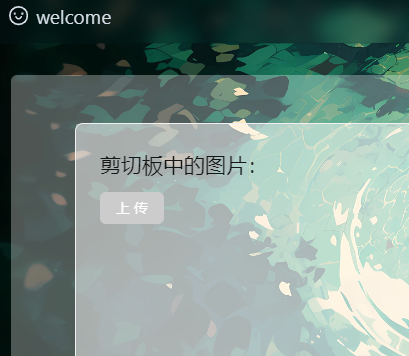
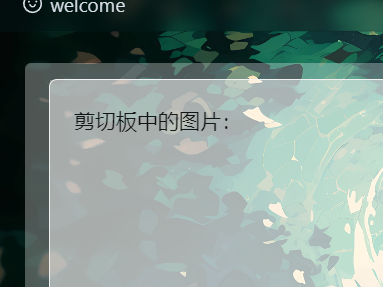
feat: 优化前端

diff --git a/apps/ant-design-pro/src/pages/upload/index.tsx b/apps/ant-design-pro/src/pages/upload/index.tsx
@@ -1,9 +1,9 @@
 import { PageContainer } from '@ant-design/pro-components';
 import { useModel } from '@umijs/max';
-import { Card, theme, message, Upload, Button, Table } from 'antd';
+import { Card, theme, message, Upload, Image, Table } from 'antd';
 import React, { useEffect, useState } from 'react';
 import { InboxOutlined } from '@ant-design/icons';
-import type { UploadProps } from 'antd';
+import type { UploadProps, TableColumnsType } from 'antd';
 import { IKContext, IKUpload, IKImage } from 'imagekitio-react';
 import { listen } from '@tauri-apps/api/event';
 import { invoke } from '@tauri-apps/api/core';
@@ -39,11 +39,12 @@ const Index: React.FC = () => {
       console.log('Dropped files', e.dataTransfer.files);
     },
   };
+  const [dataSource, setDataSource] = useState<DataType[]>([]);
   const [imageBase, setImageBase] = useState<Uint8Array<ArrayBuffer>>();
   const publicKey = 'public_f0lEErwJhjlt4SJMaHwZjt0aJ+U=';
   const urlEndpoint = 'https://ik.imagekit.io/Manshawar';
   const [imageUrl, setImageUrl] = useState<string>('');
-  const [ImgUrl, setImgUrl] = useState<string>('');
+
   async function getPic(event: any) {
     // console.log(event);
     if (event.ctrlKey && event.key === 'v') {
@@ -60,56 +61,74 @@ const Index: React.FC = () => {
           const url = URL.createObjectURL(blob);
           setImageUrl(url);
           console.log('剪切板中的图片已保存为 PNG 文件');
+          to_upload(uint8Array);
         } else {
           console.log('剪切板中没有图片内容');
         }
       }
     }
   }
-  const to_upload = async () => {
-    if (imageBase) {
-      invoke('test', { msg: imageBase }).then((res) => {
-        console.log(res);
+  const to_upload = async (uint8Array: any) => {
+    if (uint8Array) {
+      invoke('test', { msg: uint8Array }).then((res) => {
+        setDataSource([...dataSource, { address: res as string, key: res as string }]);
+        setImageUrl('');
       });
     }
   };
-  const dataSource = [
-    {
-      address: 'https://ik.imagekit.io/Manshawar/ferris_xPhjYShpx?updatedAt=1736846010347',
-    },
-  ];
-  const columns = [
+
+  interface DataType {
+    address: string;
+    key: React.Key;
+  }
+
+  const columns: TableColumnsType<DataType> = [
     {
       title: '图片',
       dataIndex: 'address',
       key: 'address',
-    },
-    {
-      title: '地址',
-      dataIndex: 'address',
-      key: 'address',
+      align: 'center',
+      render: (value, record, index) => {
+        return (
+          <div
+            style={{ width: '100%' }}
+            onClick={() => {
+              navigator.clipboard.writeText(value);
+            }}
+          >
+            <Image
+              width={200}
+              src={value}
+              placeholder={<Image preview={false} src="/bg/LonelyCAT.png" width={200} />}
+            />
+          </div>
+        );
+      },
     },
   ];
   return (
-    <PageContainer header={{ breadcrumb: {}, title: '' }}>
-      <Card
-        style={{
-          borderRadius: 8,
-          minHeight: '70vh',
-        }}
-      >
-        <div tabIndex={0} onKeyDown={getPic} style={{ width: '100%', height: '500px' }}>
-          <h2>剪切板中的图片：</h2>
-          {imageUrl && (
-            <img src={imageUrl} alt="剪切板图片" style={{ maxWidth: '100%', height: 'auto' }} />
-          )}
-          <Button type="primary" onClick={to_upload}>
-            上传
-          </Button>
-          <Table dataSource={dataSource} columns={columns} />;
-        </div>
-      </Card>
-    </PageContainer>
+    <div
+      style={{
+        flex: 1,
+        flexDirection: 'column',
+        display: 'flex',
+
+        justifyContent: 'space-between',
+      }}
+    >
+      <div tabIndex={0} onKeyDown={getPic} style={{ flex: 1 }}>
+        <h2>剪切板中的图片：</h2>
+        {imageUrl && (
+          <img src={imageUrl} alt="剪切板图片" style={{ maxWidth: '100%', height: 'auto' }} />
+        )}
+      </div>
+      <Table
+        pagination={false}
+        dataSource={dataSource}
+        columns={columns}
+        scroll={{ x: 'max-content', y: '300px' }}
+      ></Table>
+    </div>
   );
 };
 

diff --git a/apps/ant-design-pro/src/layouts/BaseLayout.tsx b/apps/ant-design-pro/src/layouts/BaseLayout.tsx
@@ -166,11 +166,15 @@ export default (props: any) => {
               header={{ breadcrumb: {}, title: '' }}
             >
               <ProCard
-                style={{
-                  flex: 1,
+                bodyStyle={{
+                  minHeight: '70vh',
+                  display: 'flex',
+                  flexDirection: 'column',
                 }}
               >
-                {props.children}
+                <div style={{ flex: 1, display: 'flex', flexDirection: 'column', height: 0 }}>
+                  {props.children}
+                </div>
               </ProCard>
             </PageContainer>
           </ProLayout>

diff --git a/apps/ant-design-pro/src/pages/User/Login/index.tsx b/apps/ant-design-pro/src/pages/User/Login/index.tsx
@@ -49,7 +49,7 @@ const useStyles = createStyles(({ token }) => {
     container: {
       display: 'flex',
       flexDirection: 'column',
-      height: '100vh',
+      minHeight: '100vh',
       overflow: 'auto',
       backgroundImage:
         "url('https://mdn.alipayobjects.com/yuyan_qk0oxh/afts/img/V-_oS6r-i7wAAAAAAAAAAAAAFl94AQBr')",

diff --git a/apps/ant-design-pro/src-tauri/src/invoke_handler/imagekit.rs b/apps/ant-design-pro/src-tauri/src/invoke_handler/imagekit.rs
@@ -1,11 +1,9 @@
-use imagekit::delete::Delete;
-use imagekit::upload::types::FileType;
 use imagekit::upload::{Options, Upload, UploadFile};
 use imagekit::ImageKit;
+use std::env;
 use tauri::{generate_context, App, AppHandle, Emitter};
 use tokio::fs::File;
 use tokio::io::AsyncWriteExt;
-
 #[tauri::command]
 pub fn test(msg: Vec<u8>) -> String {
     if let Ok(value) = get_image(msg) {
@@ -16,16 +14,17 @@ pub fn test(msg: Vec<u8>) -> String {
 }
 #[tokio::main]
 async fn get_image(msg: Vec<u8>) -> Result<String, std::io::Error> {
-    let temp_file_path = "temp_image.png";
+    let temp_dir = env::temp_dir();
+    let temp_file_path = temp_dir.join("temp_image.png");
 
     // 写入文件
     {
-        let mut file = File::create(&temp_file_path).await?;
+        let mut file = tokio::fs::File::create(&temp_file_path).await?;
         file.write_all(&msg).await?;
     } // 文件在这里自动关闭
 
     // 打开临时文件
-    let file = File::open(&temp_file_path).await?;
+    let file = tokio::fs::File::open(&temp_file_path).await?;
 
     // 初始化 ImageKit
     let image_kit = ImageKit::new(
@@ -40,12 +39,11 @@ async fn get_image(msg: Vec<u8>) -> Result<String, std::io::Error> {
         std::io::Error::new(std::io::ErrorKind::Other, format!("Upload failed: {}", e))
     })?;
 
-    // 删除临时文件
-    tokio::fs::remove_file(&temp_file_path).await?;
+    // 不删除临时文件，让操作系统自动清理
+    // tokio::fs::remove_file(&temp_file_path).await?;
 
     // 返回上传结果的 URL
     Ok(upload_result.url)
-    // 2. 打开临时文件
     // let file = File::open(temp_file_path).await.map_err(|e| e.to_string());
 
     // let mut image_kit = ImageKit::new(
